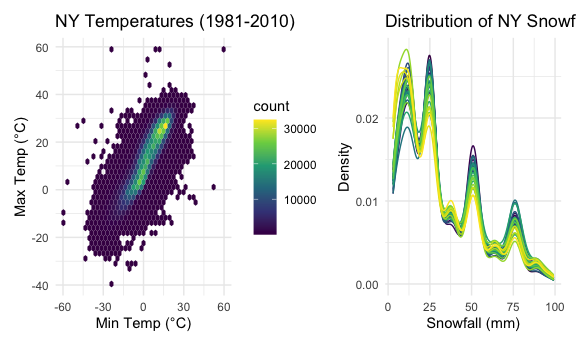
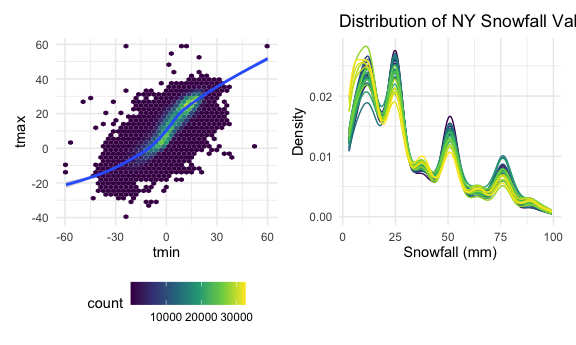
Added description for problem 3 extent of missing data

diff --git a/p8105_hw3_hlz2108.md b/p8105_hw3_hlz2108.md
@@ -299,7 +299,7 @@ more active on the weekends, in the evening hours around 8-10pm.
 
 ## Problem 3
 
-Loading dataset.
+Loading NY\_NOAA dataset.
 
 ``` r
 data("ny_noaa")
@@ -320,12 +320,32 @@ The variables in the data set are:
   - `tmax`: Maximum temperature (tenths of degrees C)
   - `tmin`: Minimum temperature (tenths of degrees C)
 
+There are 747 distinct weather stations in NYS.
+
 Because not all weather stations in NY collect all these variables, the
 original dataset contains extensive amount of missing data.
 
-There are 747 distinct weather stations in NYS.
+To take a closer look at the amount of missing data, let’s look at what
+proportion of data is missing for each variable.
 
-### LOOK AT MISSING DATA
+``` r
+missing_noaa = ny_noaa %>% 
+  summarize(
+    missing_prcp = mean(is.na(prcp)),
+    missing_snow = mean(is.na(snow)),
+    missing_snwd = mean(is.na(snwd)),
+    missing_tmax = mean(is.na(tmax)),
+    missing_tmin = mean(is.na(tmin))
+    ) %>% 
+  knitr::kable()
+```
+
+From the table, we can see that there is quite a lot of missing data for
+`tmax` and `tmin`, up to 44% in each. `snow` and `snwd` have a smaller
+proportion of missing data. Missing data could influence the accuracy of
+further analysis, depending on when the missing data was collected.
+
+#### Data Cleaning
 
 ``` r
 noaa_tidy = ny_noaa %>% 
@@ -441,17 +461,26 @@ the plot (20 degrees vs 10 degrees).
 ``` r
 tmax_tmin_p = ggplot(noaa_tidy, aes(x = tmin, y = tmax)) +
   geom_hex(bins = 40) +
+  geom_smooth()
   labs(
     title = "NY Temperatures (1981-2010)",
     x = "Min Temp (°C)",
     y = "Max Temp (°C)"
   ) + 
   theme(legend.position = "right")
+```
 
+    ## NULL
+
+``` r
 tmax_tmin_p
 ```
 
     ## Warning: Removed 1136276 rows containing non-finite values (stat_binhex).
+
+    ## `geom_smooth()` using method = 'gam' and formula 'y ~ s(x, bs = "cs")'
+
+    ## Warning: Removed 1136276 rows containing non-finite values (stat_smooth).
 
 <img src="p8105_hw3_hlz2108_files/figure-gfm/tmax_tmin_plot-1.png" width="90%" />
 
@@ -478,12 +507,20 @@ tmax_tmin_p + snowfall_p
 
     ## Warning: Removed 1136276 rows containing non-finite values (stat_binhex).
 
+    ## `geom_smooth()` using method = 'gam' and formula 'y ~ s(x, bs = "cs")'
+
+    ## Warning: Removed 1136276 rows containing non-finite values (stat_smooth).
+
 <img src="p8105_hw3_hlz2108_files/figure-gfm/patchwork_p-1.png" width="90%" />
 
 The left hand side shows `tmax` vs `tmin` for the full dataset. It
 appears that most days have a maximum temperature of \~25°C and a
-minimum temperature of \~15°C.
+minimum temperature of \~15°C. The line helps the reader visually see
+the most common max and min temps for days. The relationship appears to
+be linear in the middle but slightly sigmoidal (S-shaped) at the ends.
 
 The right hand side shows the distribution of snowfall values that are
 greater than 0 and less than 100 seaparately by year. Each colored line
-represents a different year.
+represents a different year. The snowfall distribution does not appear
+to vary significantly by year, and it is difficult to determine any
+trends from this plot.
